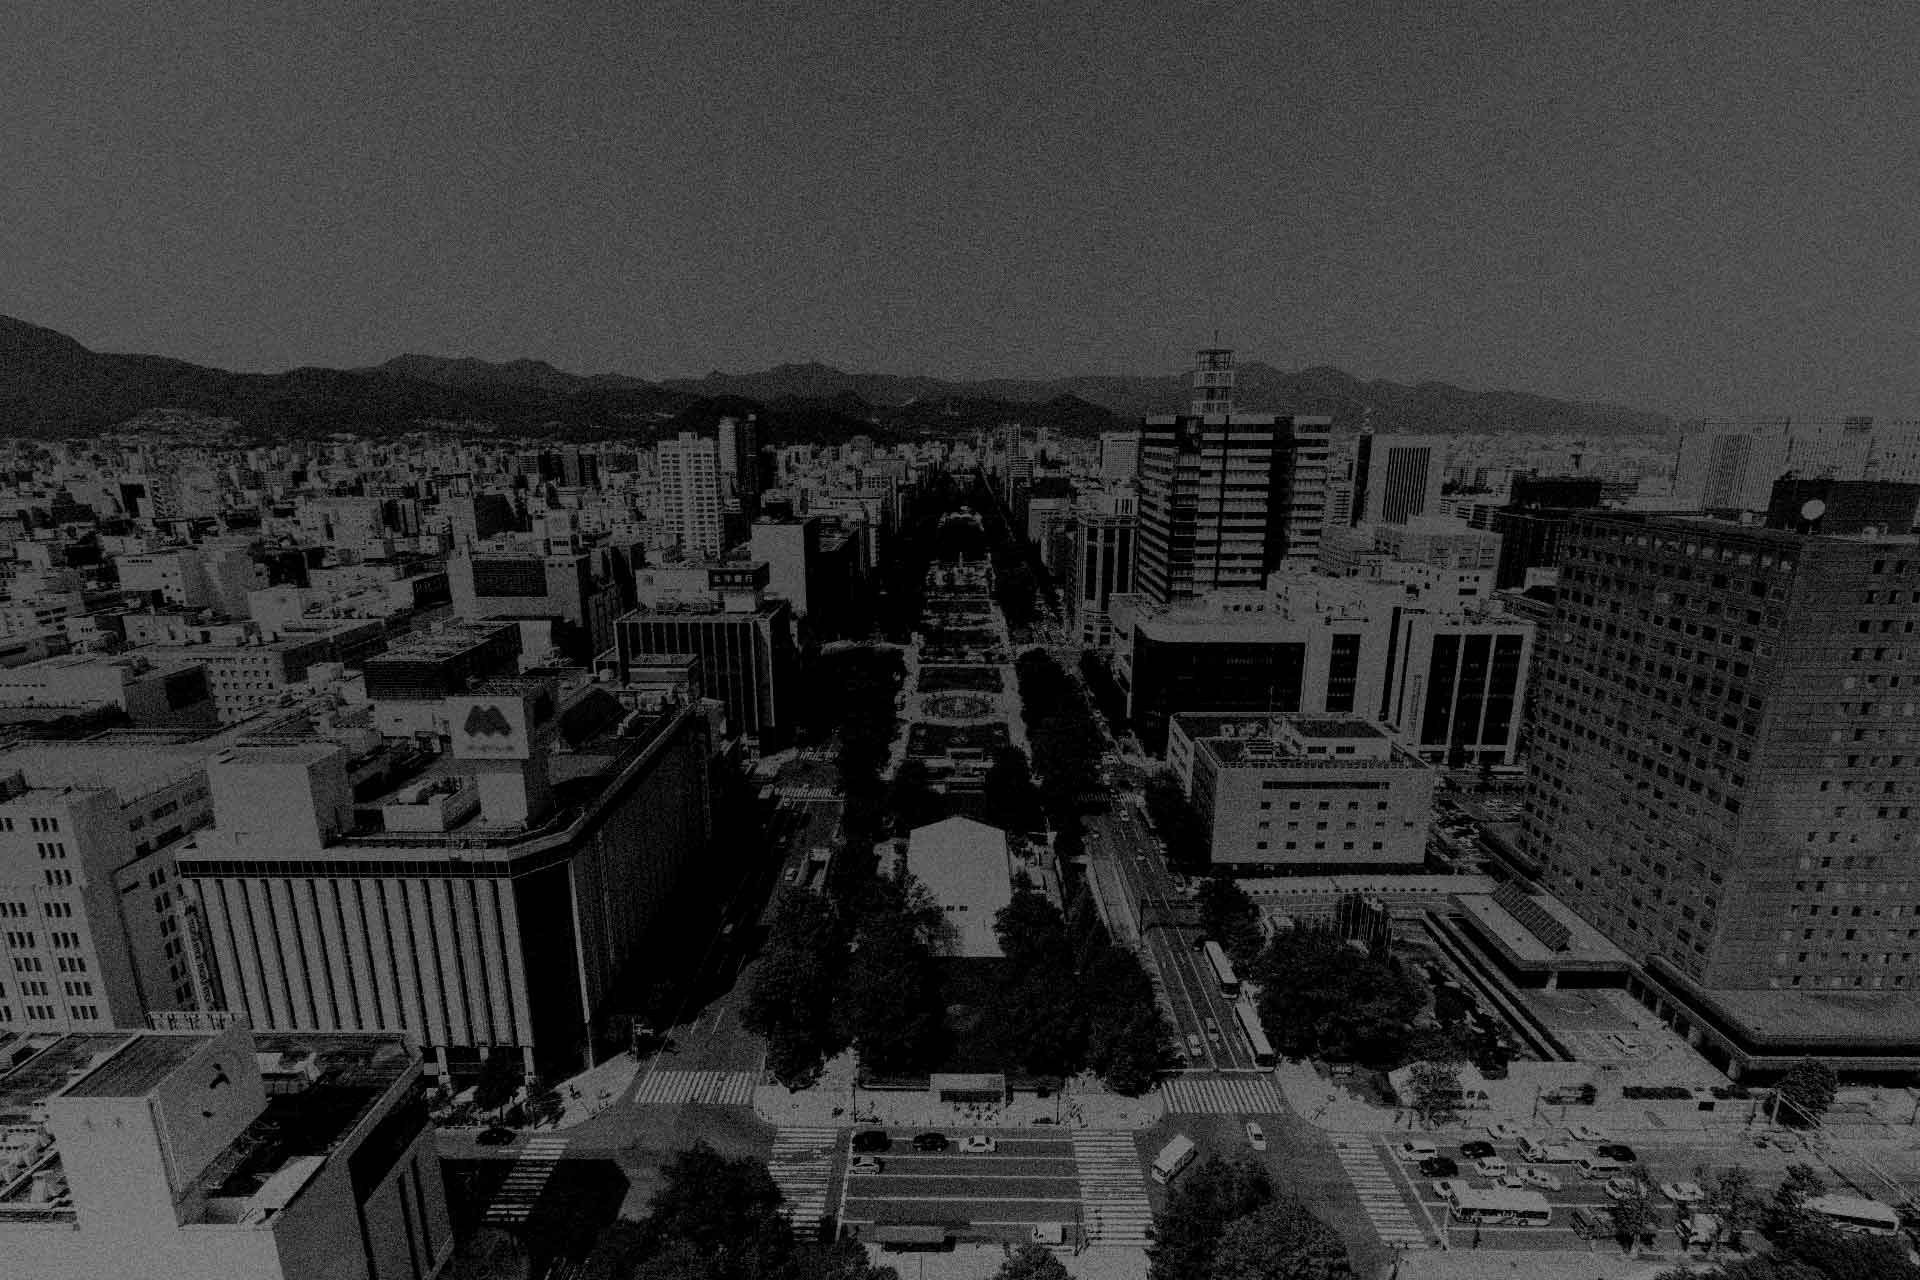
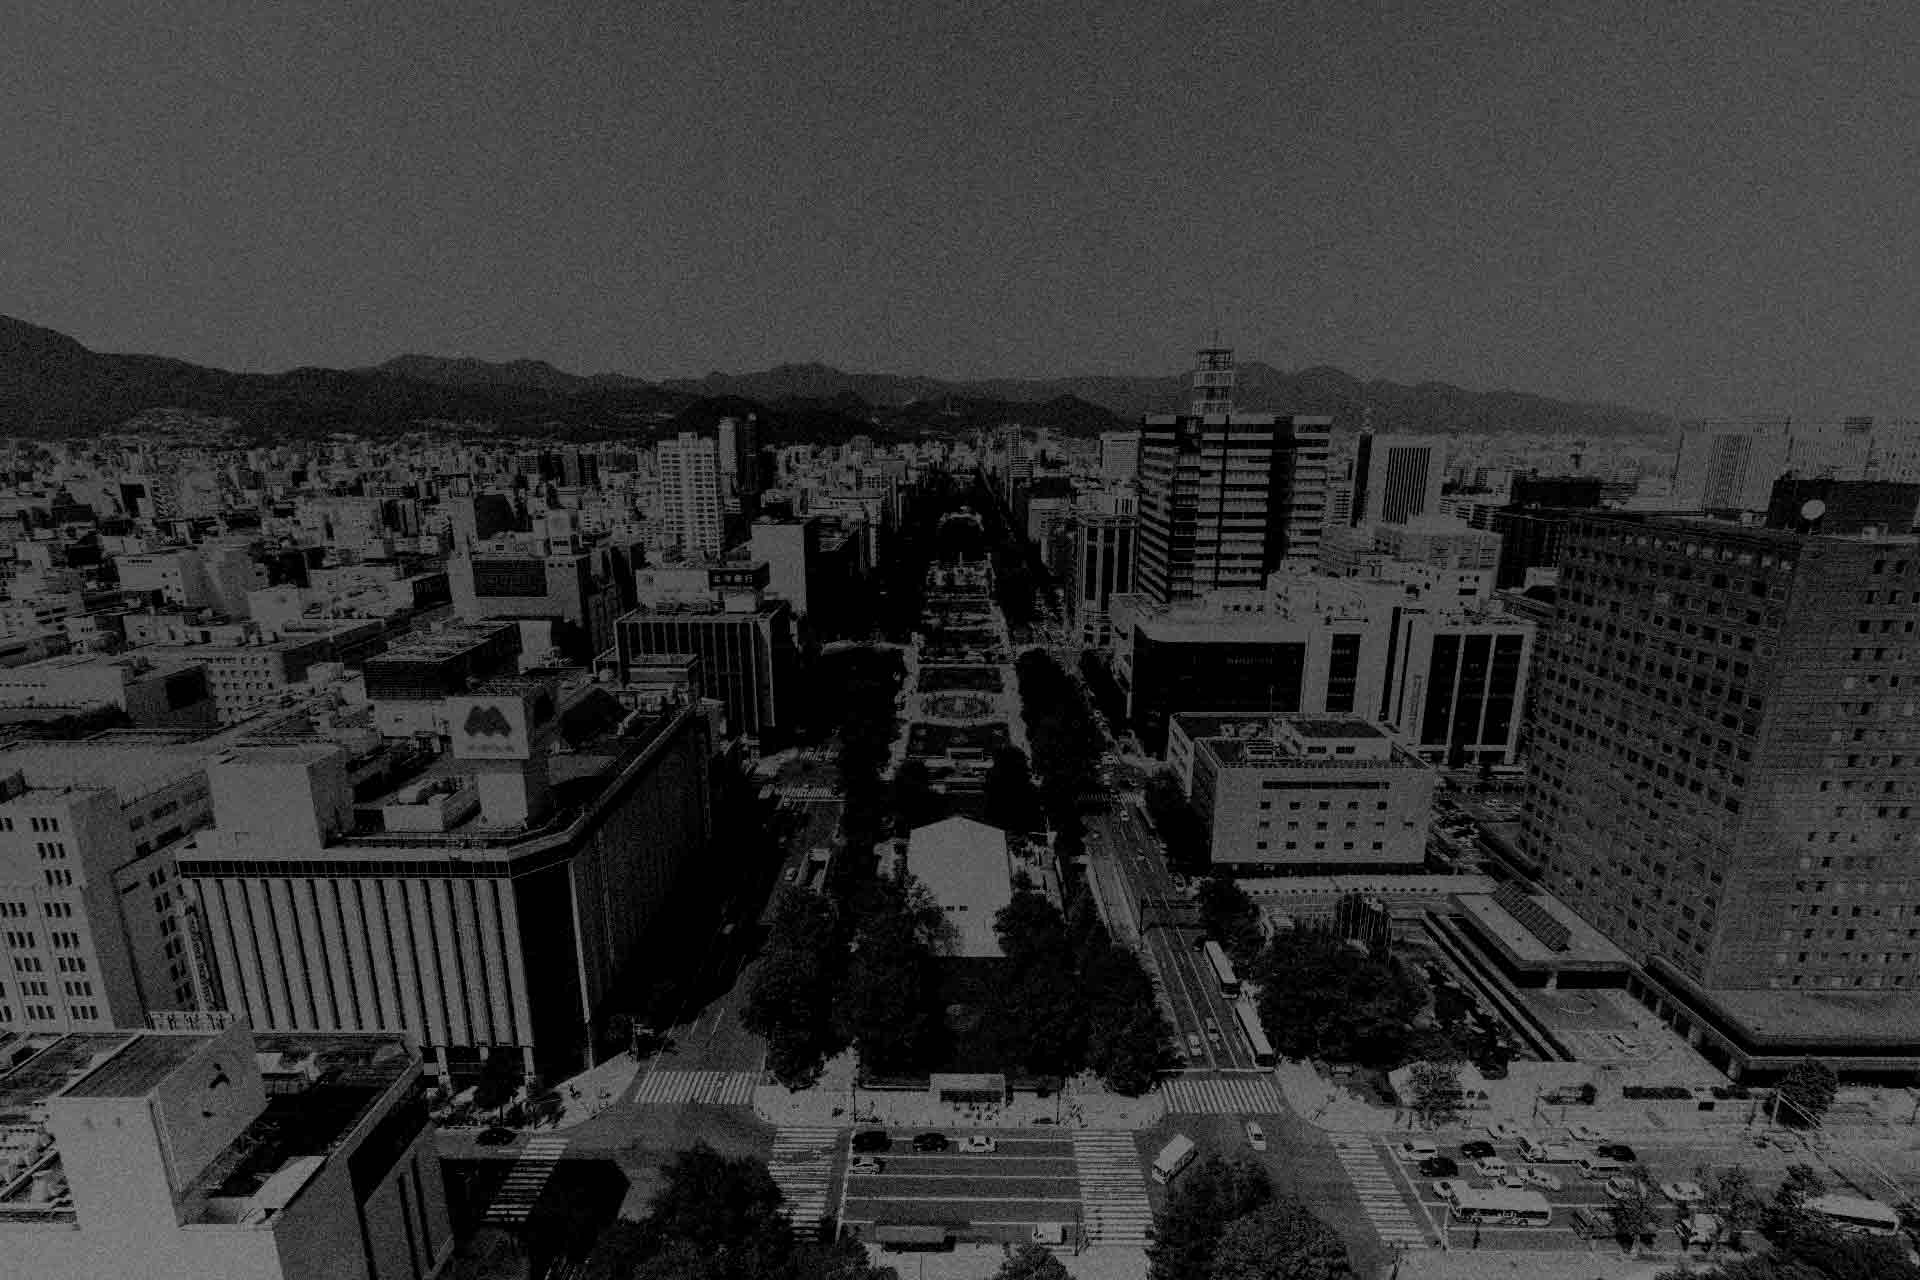
画像修正

diff --git a/works/index.html b/works/index.html
@@ -55,7 +55,7 @@
         <ul class="works-view__ul">
           <li class="works-view__list">
             <a href="tsukisamutei/index.html" class="works-view__link">
-              <img src="../images/works/thumbnail_tsukisamutei.jpg" alt="源流の宿　月寒亭サムネイル" class="works-view__img">
+              <img src="../images/works/thumbnail_large_tsukisamutei.jpg" alt="源流の宿　月寒亭サムネイル" class="works-view__img">
             </a>
             <h3 class="works-view__name">源流の宿　月寒亭</h3>
             <div class="works-view__tag-wrap">
@@ -65,7 +65,7 @@
           </li>
           <li class="works-view__list">
             <a href="musubi/index.html" class="works-view__link">
-              <img src="../images/works/thumbnail_musubi.jpg" alt="ごはんや　むすびサムネイル" class="works-view__img">
+              <img src="../images/works/thumbnail_large_musubi.jpg" alt="ごはんや　むすびサムネイル" class="works-view__img">
             </a>
             <h3 class="works-view__name">ごはんや　むすび</h3>
             <div class="works-view__tag-wrap">
@@ -75,7 +75,7 @@
           </li>
           <li class="works-view__list">
             <a href="azito/index.html" class="works-view__link">
-              <img src="../images/works/thumbnail_azito.jpg" alt="cafe azitoサムネイル" class="works-view__img">
+              <img src="../images/works/thumbnail_large_azito.jpg" alt="cafe azitoサムネイル" class="works-view__img">
             </a>
             <h3 class="works-view__name">cafe azito</h3>
             <div class="works-view__tag-wrap">
@@ -85,7 +85,7 @@
           </li>
           <li class="works-view__list">
             <a href="wss/index.html" class="works-view__link">
-              <img src="../images/works/thumbnail_wss.jpg" alt="ウェブスタディサッポロサムネイル" class="works-view__img">
+              <img src="../images/works/thumbnail_large_wss.jpg" alt="ウェブスタディサッポロサムネイル" class="works-view__img">
             </a>
             <h3 class="works-view__name">ウェブスタディサッポロ</h3>
             <div class="works-view__tag-wrap">
@@ -95,7 +95,7 @@
           </li>
           <li class="works-view__list">
             <a href="cafecamp/index.html" class="works-view__link">
-              <img src="../images/works/thumbnail_cafecamp.jpg" alt="CAFE CAMP FESTIVALサムネイル" class="works-view__img">
+              <img src="../images/works/thumbnail_large_cafecamp.jpg" alt="CAFE CAMP FESTIVALサムネイル" class="works-view__img">
             </a>
             <h3 class="works-view__name">CAFE CAMP FESTIVAL</h3>
             <div class="works-view__tag-wrap">
@@ -104,7 +104,7 @@
           </li>
           <li class="works-view__list">
             <a href="nextone/index.html" class="works-view__link">
-              <img src="../images/works/thumbnail_nextone.jpg" alt="NEXTONEサムネイル" class="works-view__img">
+              <img src="../images/works/thumbnail_large_nextone.jpg" alt="NEXTONEサムネイル" class="works-view__img">
             </a>
             <h3 class="works-view__name">NEXTONE</h3>
             <div class="works-view__tag-wrap">
@@ -114,7 +114,7 @@
           </li>
           <li class="works-view__list">
             <a href="furnitureSpot/index.html" class="works-view__link">
-              <img src="../images/works/thumbnail_furnitureSpot.jpg" alt="Furniture Spotサムネイル" class="works-view__img">
+              <img src="../images/works/thumbnail_large_furnitureSpot.jpg" alt="Furniture Spotサムネイル" class="works-view__img">
             </a>
             <h3 class="works-view__name">Furniture Spot</h3>
             <div class="works-view__tag-wrap">
